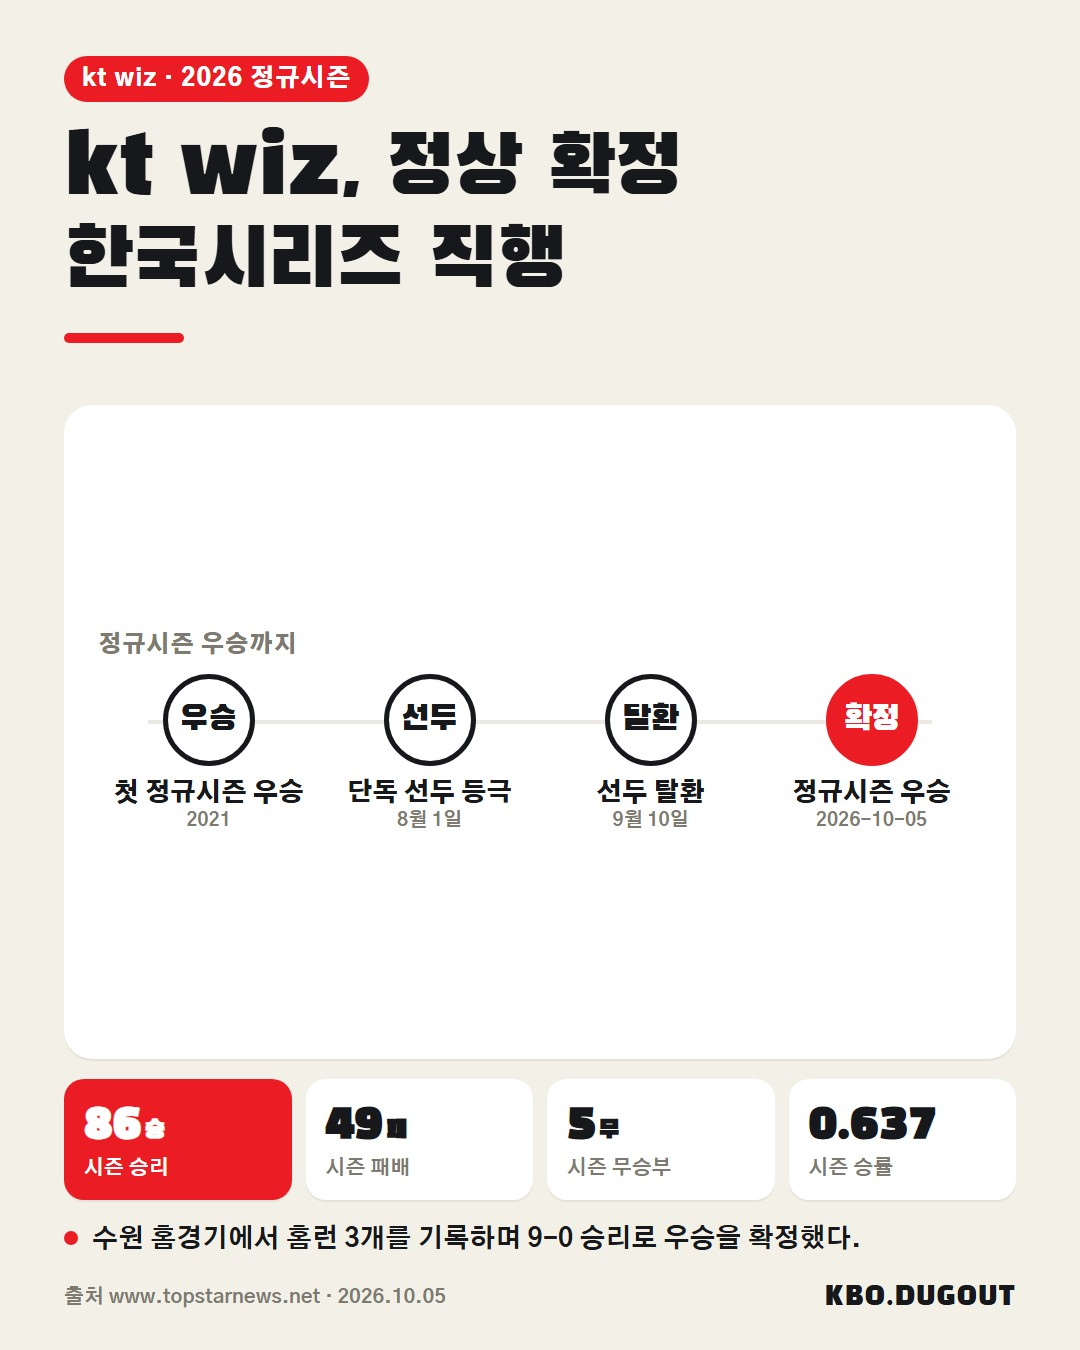
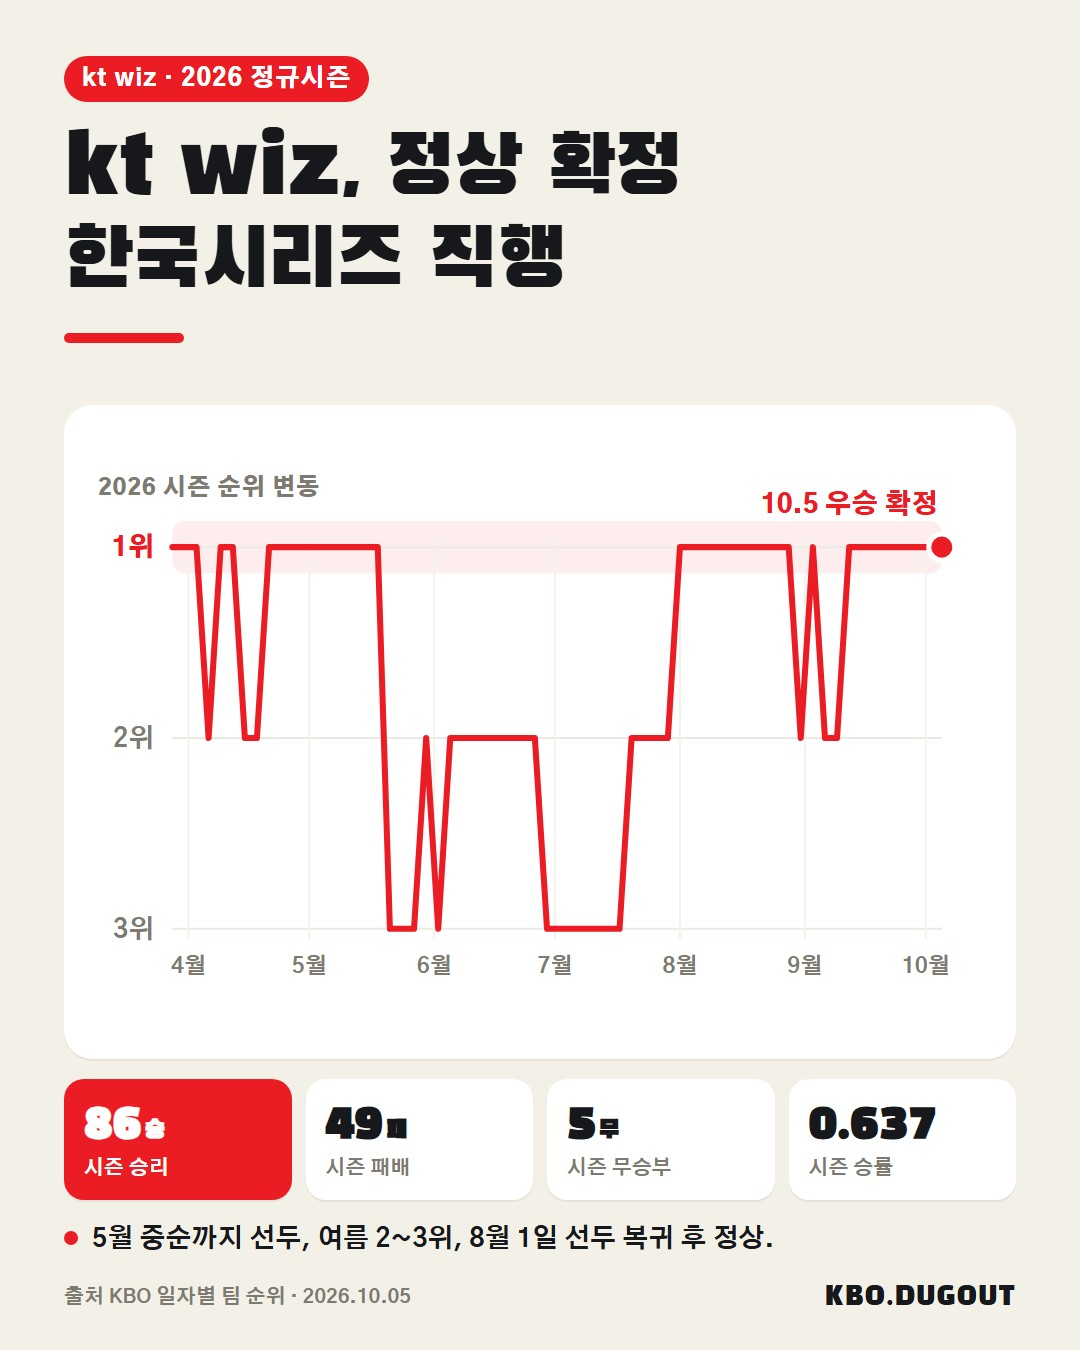
chore: publish review batch 84763767350e

diff --git a/review/2026-10-05-84763767350e.html b/review/2026-10-05-84763767350e.html
@@ -1,0 +1,28 @@
+<!doctype html>
+<html lang="ko">
+<head>
+  <meta charset="utf-8">
+  <meta name="viewport" content="width=device-width, initial-scale=1">
+  <title>콘텐츠 검토</title>
+  <style>
+    * { box-sizing: border-box; }
+    body { margin: 0; background: #f3efe4; color: #182126; font-family: sans-serif; }
+    main { width: min(100%, 720px); margin: auto; padding: 24px 16px 48px; }
+    article { margin: 0 0 32px; padding-bottom: 32px; border-bottom: 1px solid #aaa397; }
+    .carousel { display: grid; gap: 12px; }
+    img { display: block; width: 100%; max-width: 100%; height: auto; }
+    .meta { color: #5f625e; font-size: .85rem; }
+    .body { white-space: pre-wrap; line-height: 1.65; }
+    .qa { padding: 12px; background: #e5ded0; }
+  </style>
+</head>
+<body><main><h1>콘텐츠 검토</h1><article>
+  <p class="meta">Draft #185</p>
+  <div class="carousel">
+    <img src="../cards/draft-185-01.png" alt="Draft #185 카드 1">
+  </div>
+  <p class="body">kt wiz가 2026시즌 정규시즌 1위를 확정했어요. 2021년 이후 5년 만의 통산 두 번째 우승이고, 한국시리즈에 직행합니다. 한국시리즈에서도 웃을 수 있을까요?
+#KBO #프로야구 #야구 #KT위즈</p>
+  <p class="qa"><strong>QA</strong> 없음</p>
+</article></main></body>
+</html>
